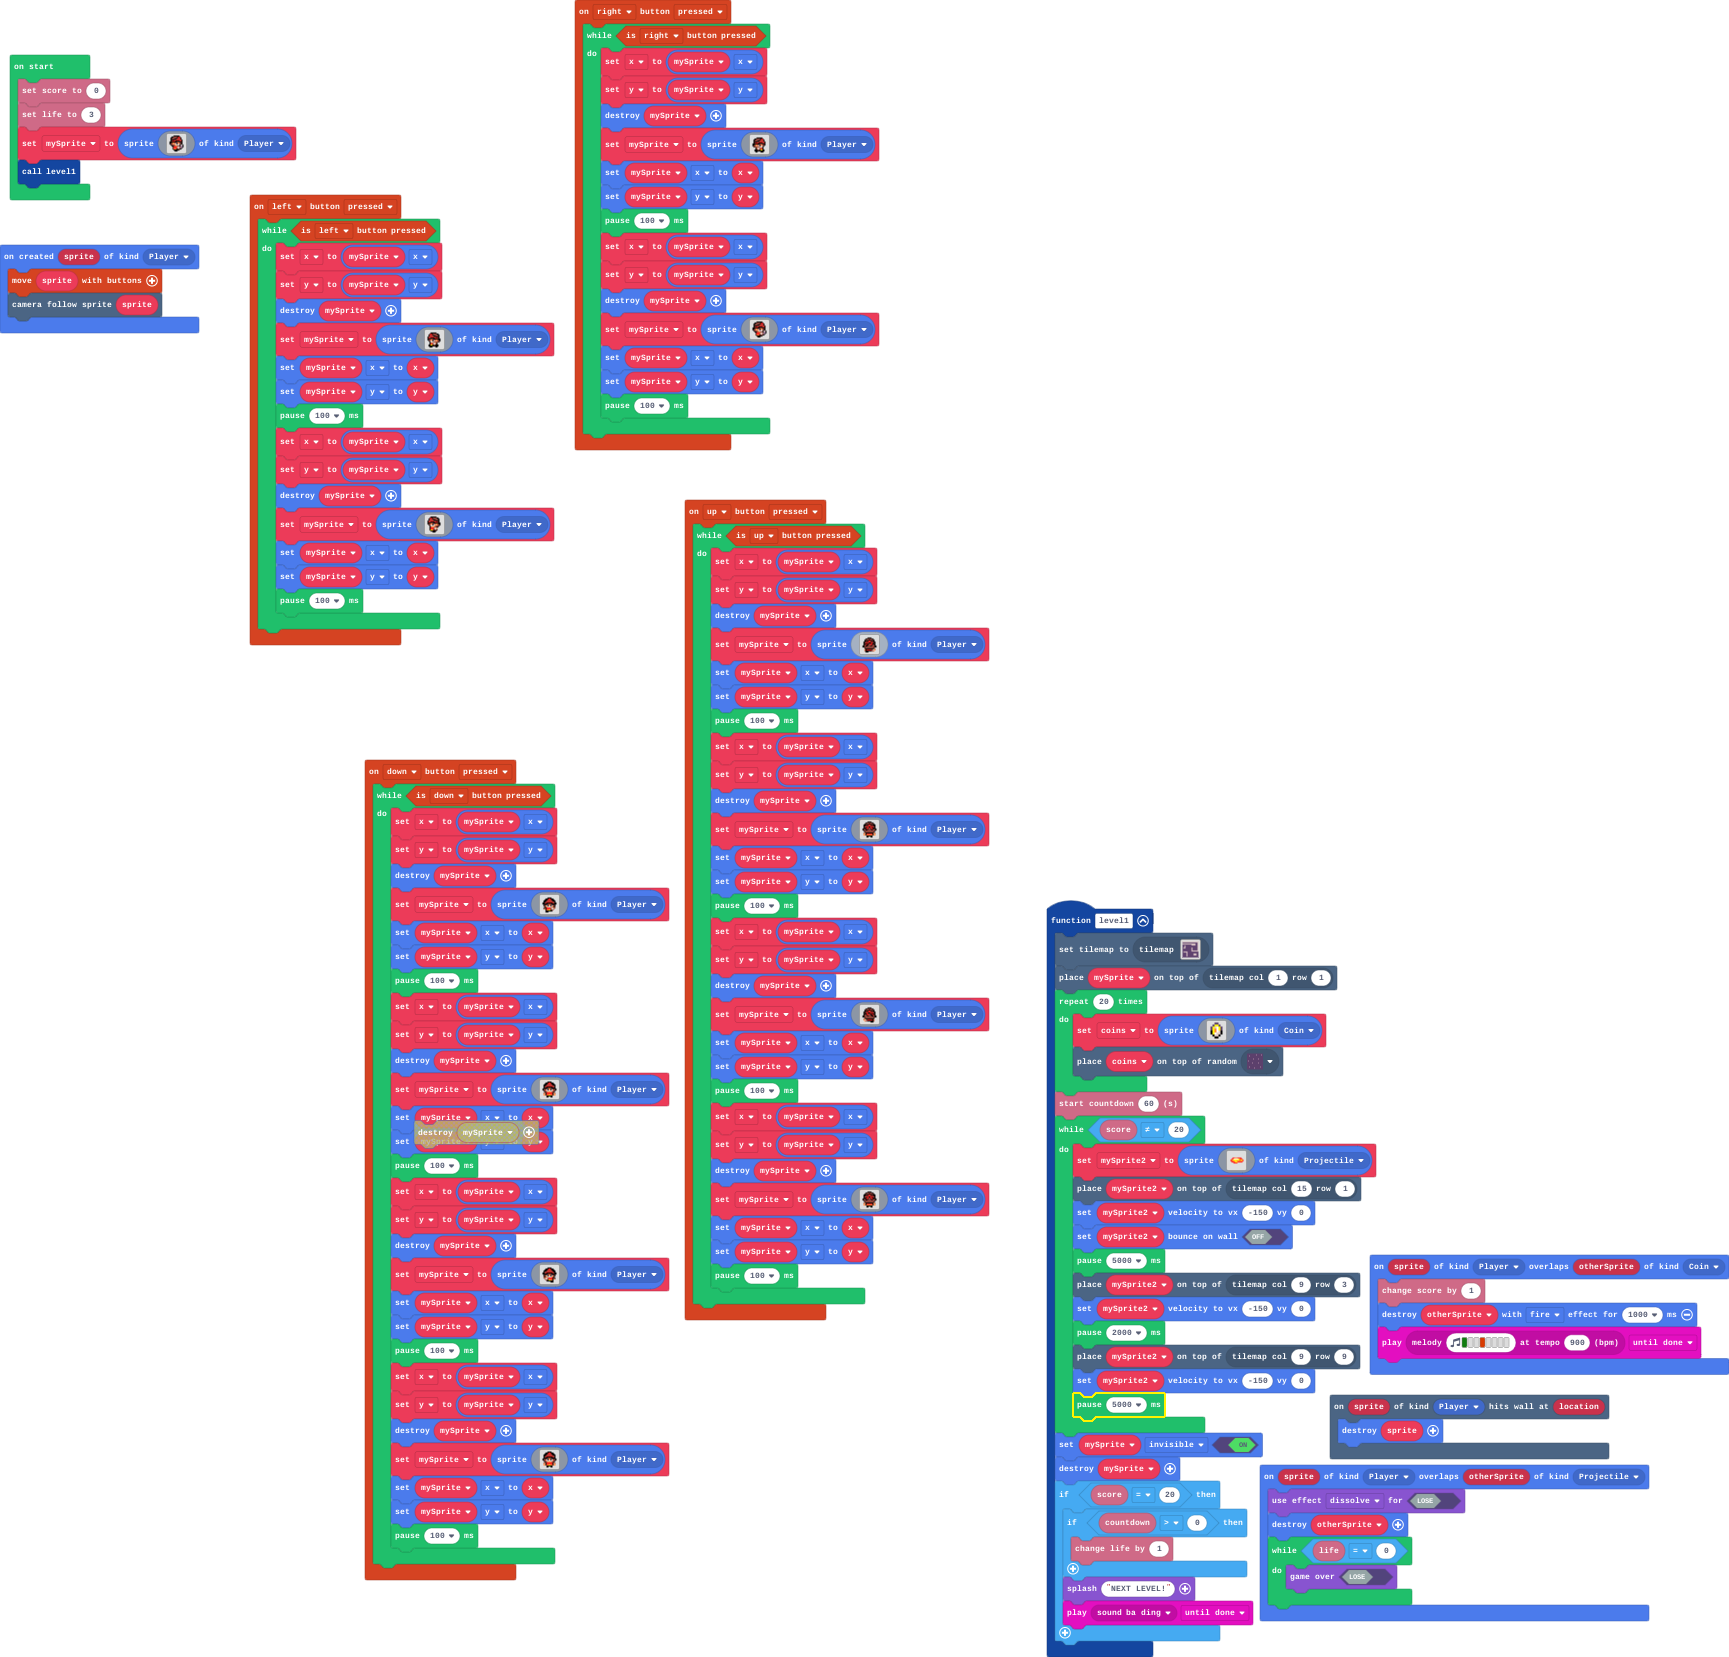
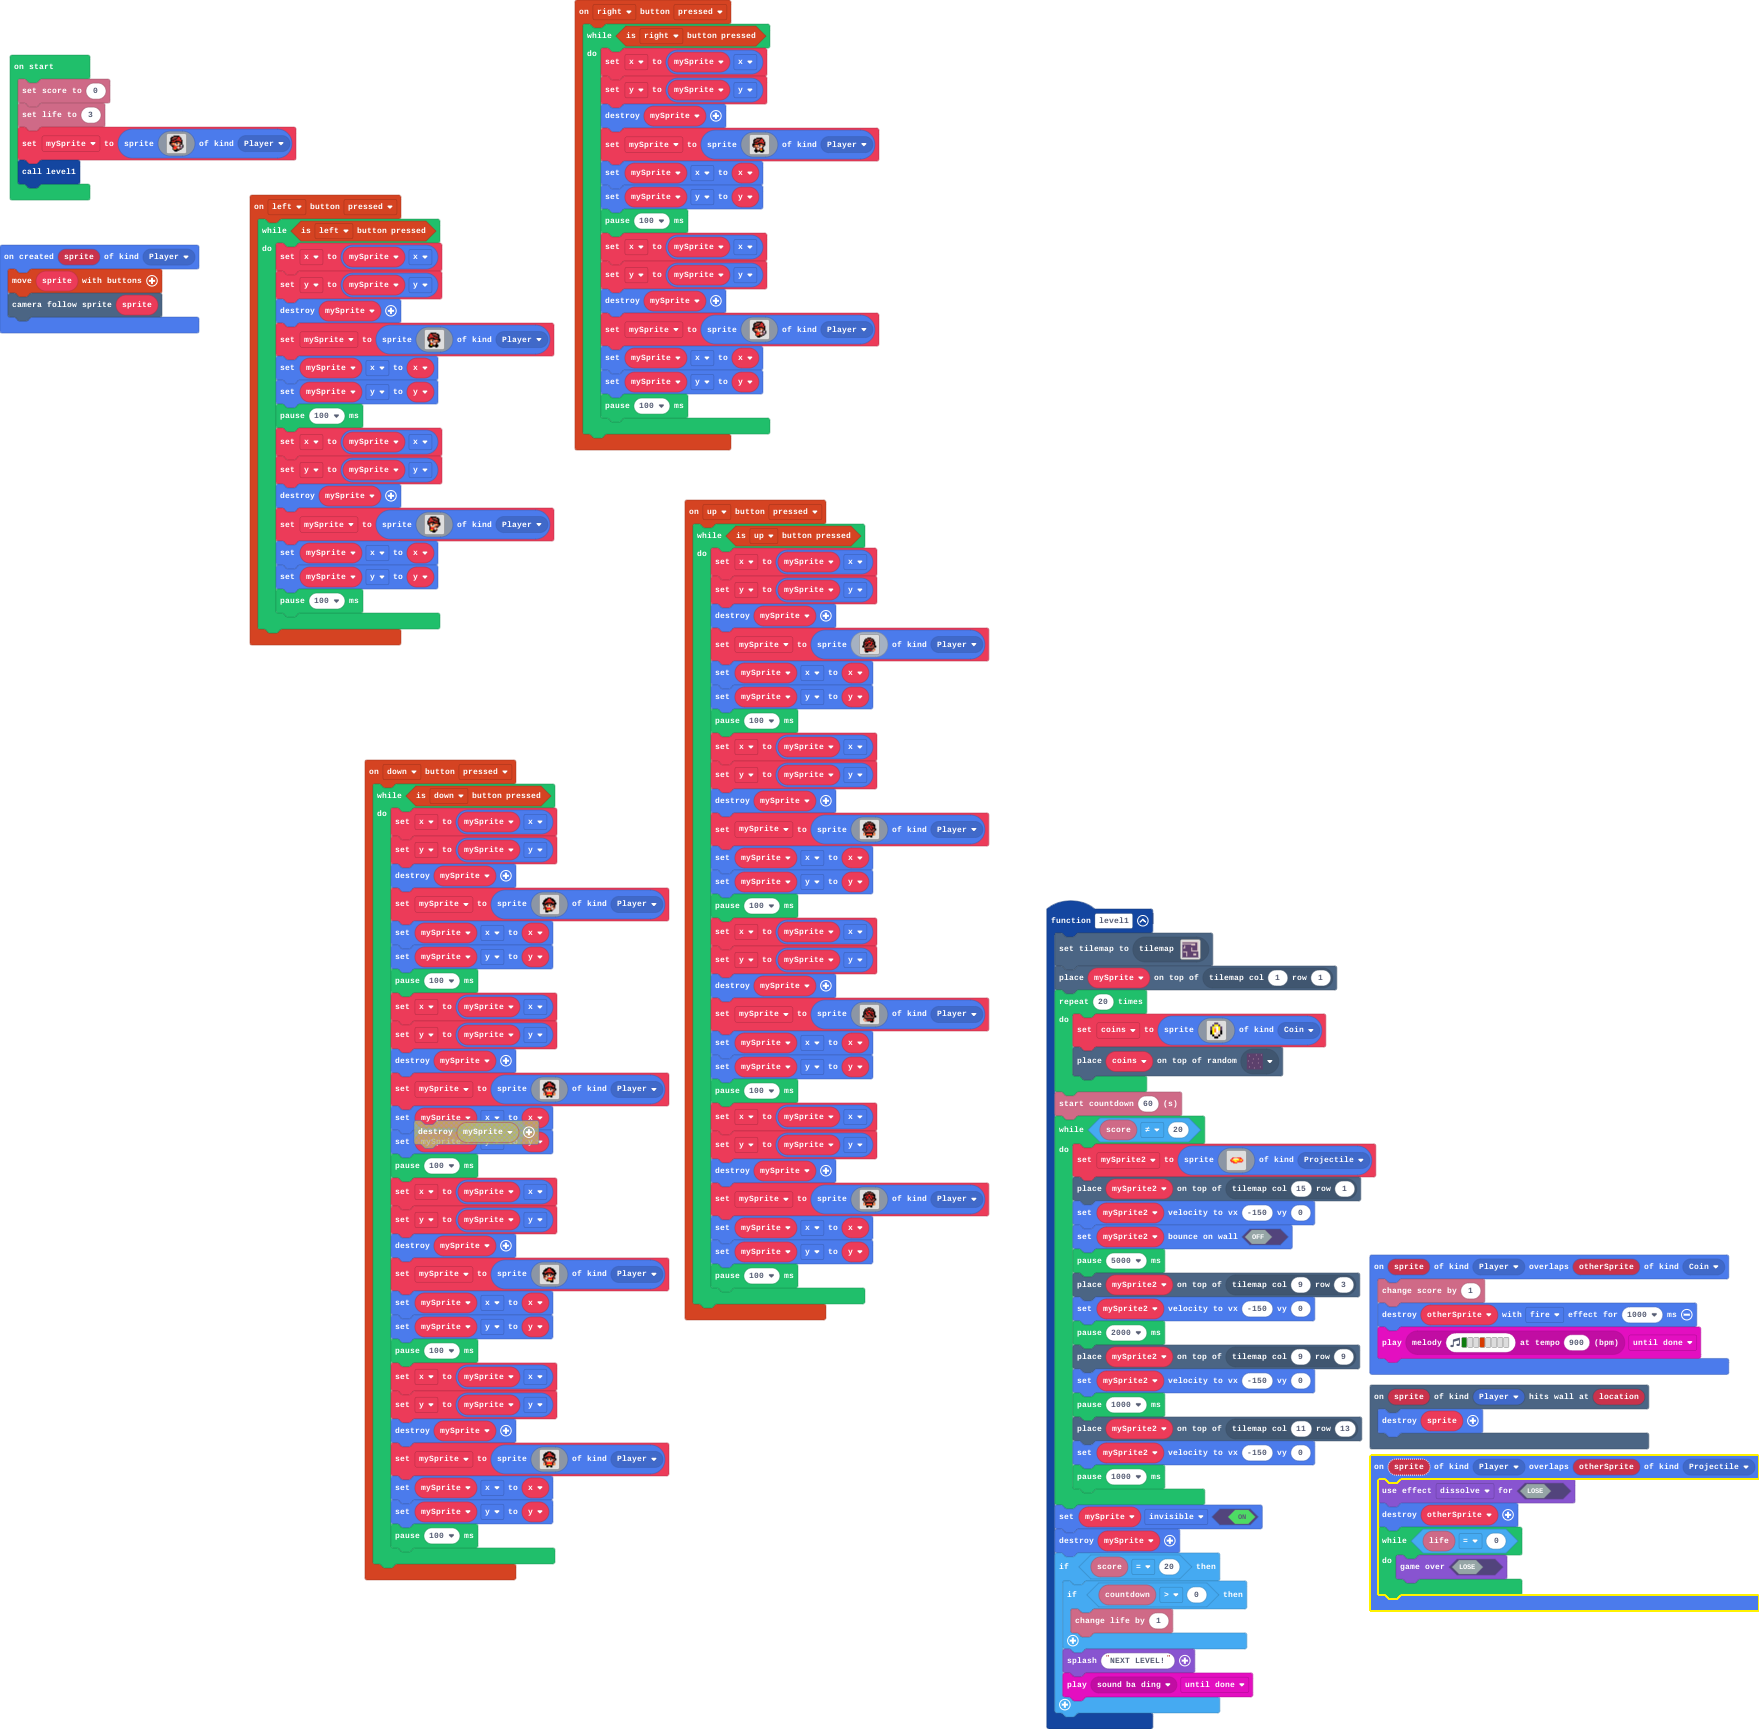
Update main.blocks, main.ts

Changed region(s): [[0.0, 0.0, 1.0, 1.0]]

diff --git a/main.ts b/main.ts
@@ -154,7 +154,10 @@ function level1 () {
         pause(2000)
         tiles.placeOnTile(mySprite2, tiles.getTileLocation(9, 9))
         mySprite2.setVelocity(-150, 0)
-        pause(5000)
+        pause(1000)
+        tiles.placeOnTile(mySprite2, tiles.getTileLocation(11, 13))
+        mySprite2.setVelocity(-150, 0)
+        pause(1000)
     }
     mySprite.setFlag(SpriteFlag.Invisible, true)
     sprites.destroy(mySprite)
